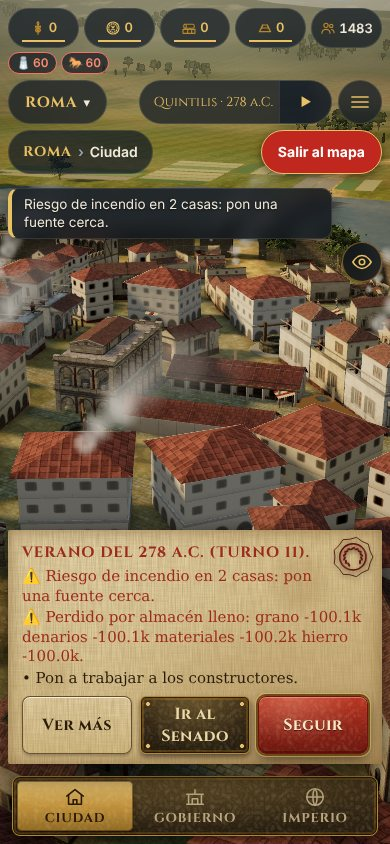
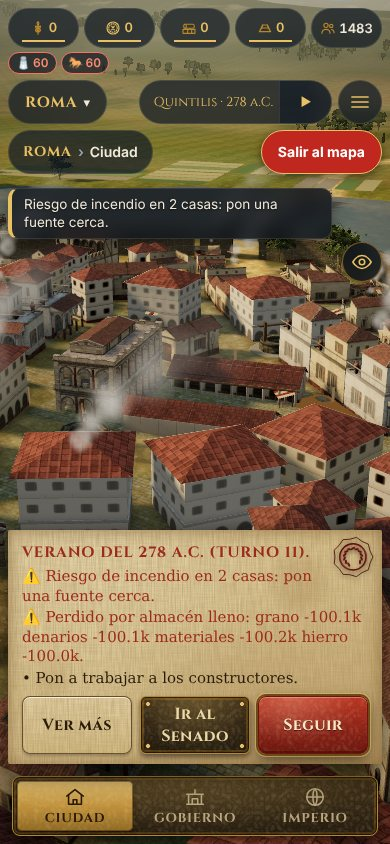
CI1b: calles de tierra más claras y eje del foro más ancho; caché v130
Claude-Session: https://claude.ai/code/session_01QiKC3AfVQgWjdzHpMKkgYR

diff --git a/sw.js b/sw.js
@@ -1,5 +1,5 @@
 /* AQVILA — service worker: todo el juego queda en caché para jugar sin conexión */
-const CACHE = 'aqvila-v129';
+const CACHE = 'aqvila-v130';
 const FILES = ['assets/soldados/movimientos_escudo_36.bin', 'assets/soldados/movimientos_escudo_74.bin', 'assets/soldados/falangita.bin', 'assets/soldados/falangita.json', 'assets/soldados/falangita_color.webp', 'assets/soldados/falangita_fondo.bin', 'assets/soldados/falangita_fondo.json', 'assets/soldados/falangita_fondo_color.webp', 'assets/soldados/falangita_fondo_masc.webp', 'assets/soldados/falangita_fondo_normal.webp', 'assets/soldados/falangita_fondo_orm.webp', 'assets/soldados/falangita_lejos.bin', 'assets/soldados/falangita_lejos.json', 'assets/soldados/falangita_lejos_color.webp', 'assets/soldados/falangita_lejos_masc.webp', 'assets/soldados/falangita_lejos_normal.webp', 'assets/soldados/falangita_lejos_orm.webp', 'assets/soldados/falangita_masc.webp', 'assets/soldados/falangita_muylejos.bin', 'assets/soldados/falangita_muylejos.json', 'assets/soldados/falangita_muylejos_color.webp', 'assets/soldados/falangita_muylejos_masc.webp', 'assets/soldados/falangita_muylejos_normal.webp', 'assets/soldados/falangita_muylejos_orm.webp', 'assets/soldados/falangita_normal.webp', 'assets/soldados/falangita_orm.webp', 'assets/soldados/hondero.bin', 'assets/soldados/hondero.json', 'assets/soldados/hondero_color.webp', 'assets/soldados/hondero_fondo.bin', 'assets/soldados/hondero_fondo.json', 'assets/soldados/hondero_fondo_color.webp', 'assets/soldados/hondero_fondo_masc.webp', 'assets/soldados/hondero_fondo_normal.webp', 'assets/soldados/hondero_fondo_orm.webp', 'assets/soldados/hondero_lejos.bin', 'assets/soldados/hondero_lejos.json', 'assets/soldados/hondero_lejos_color.webp', 'assets/soldados/hondero_lejos_masc.webp', 'assets/soldados/hondero_lejos_normal.webp', 'assets/soldados/hondero_lejos_orm.webp', 'assets/soldados/hondero_masc.webp', 'assets/soldados/hondero_muylejos.bin', 'assets/soldados/hondero_muylejos.json', 'assets/soldados/hondero_muylejos_color.webp', 'assets/soldados/hondero_muylejos_masc.webp', 'assets/soldados/hondero_muylejos_normal.webp', 'assets/soldados/hondero_muylejos_orm.webp', 'assets/soldados/hondero_normal.webp', 'assets/soldados/hondero_orm.webp', 'assets/soldados/hoplita.bin', 'assets/soldados/hoplita.json', 'assets/soldados/hoplita_color.webp', 'assets/soldados/hoplita_fondo.bin', 'assets/soldados/hoplita_fondo.json', 'assets/soldados/hoplita_fondo_color.webp', 'assets/soldados/hoplita_fondo_masc.webp', 'assets/soldados/hoplita_fondo_normal.webp', 'assets/soldados/hoplita_fondo_orm.webp', 'assets/soldados/hoplita_lejos.bin', 'assets/soldados/hoplita_lejos.json', 'assets/soldados/hoplita_lejos_color.webp', 'assets/soldados/hoplita_lejos_masc.webp', 'assets/soldados/hoplita_lejos_normal.webp', 'assets/soldados/hoplita_lejos_orm.webp', 'assets/soldados/hoplita_masc.webp', 'assets/soldados/hoplita_muylejos.bin', 'assets/soldados/hoplita_muylejos.json', 'assets/soldados/hoplita_muylejos_color.webp', 'assets/soldados/hoplita_muylejos_masc.webp', 'assets/soldados/hoplita_muylejos_normal.webp', 'assets/soldados/hoplita_muylejos_orm.webp', 'assets/soldados/hoplita_normal.webp', 'assets/soldados/hoplita_orm.webp', 'assets/soldados/ibero.bin', 'assets/soldados/ibero.json', 'assets/soldados/ibero_color.webp', 'assets/soldados/ibero_fondo.bin', 'assets/soldados/ibero_fondo.json', 'assets/soldados/ibero_fondo_color.webp', 'assets/soldados/ibero_fondo_masc.webp', 'assets/soldados/ibero_fondo_normal.webp', 'assets/soldados/ibero_fondo_orm.webp', 'assets/soldados/ibero_lejos.bin', 'assets/soldados/ibero_lejos.json', 'assets/soldados/ibero_lejos_color.webp', 'assets/soldados/ibero_lejos_masc.webp', 'assets/soldados/ibero_lejos_normal.webp', 'assets/soldados/ibero_lejos_orm.webp', 'assets/soldados/ibero_masc.webp', 'assets/soldados/ibero_muylejos.bin', 'assets/soldados/ibero_muylejos.json', 'assets/soldados/ibero_muylejos_color.webp', 'assets/soldados/ibero_muylejos_masc.webp', 'assets/soldados/ibero_muylejos_normal.webp', 'assets/soldados/ibero_muylejos_orm.webp', 'assets/soldados/ibero_normal.webp', 'assets/soldados/ibero_orm.webp', 'assets/soldados/movimientos_sarisa_36.bin', 'assets/soldados/movimientos_sarisa_74.bin', 'assets/soldados/peltasta.bin', 'assets/soldados/peltasta.json', 'assets/soldados/peltasta_color.webp', 'assets/soldados/peltasta_fondo.bin', 'assets/soldados/peltasta_fondo.json', 'assets/soldados/peltasta_fondo_color.webp', 'assets/soldados/peltasta_fondo_masc.webp', 'assets/soldados/peltasta_fondo_normal.webp', 'assets/soldados/peltasta_fondo_orm.webp', 'assets/soldados/peltasta_lejos.bin', 'assets/soldados/peltasta_lejos.json', 'assets/soldados/peltasta_lejos_color.webp', 'assets/soldados/peltasta_lejos_masc.webp', 'assets/soldados/peltasta_lejos_normal.webp', 'assets/soldados/peltasta_lejos_orm.webp', 'assets/soldados/peltasta_masc.webp', 'assets/soldados/peltasta_muylejos.bin', 'assets/soldados/peltasta_muylejos.json', 'assets/soldados/peltasta_muylejos_color.webp', 'assets/soldados/peltasta_muylejos_masc.webp', 'assets/soldados/peltasta_muylejos_normal.webp', 'assets/soldados/peltasta_muylejos_orm.webp', 'assets/soldados/peltasta_normal.webp', 'assets/soldados/peltasta_orm.webp', 'assets/soldados/triario.bin', 'assets/soldados/triario.json', 'assets/soldados/triario_color.webp', 'assets/soldados/triario_fondo.bin', 'assets/soldados/triario_fondo.json', 'assets/soldados/triario_fondo_color.webp', 'assets/soldados/triario_fondo_masc.webp', 'assets/soldados/triario_fondo_normal.webp', 'assets/soldados/triario_fondo_orm.webp', 'assets/soldados/triario_lejos.bin', 'assets/soldados/triario_lejos.json', 'assets/soldados/triario_lejos_color.webp', 'assets/soldados/triario_lejos_masc.webp', 'assets/soldados/triario_lejos_normal.webp', 'assets/soldados/triario_lejos_orm.webp', 'assets/soldados/triario_masc.webp', 'assets/soldados/triario_muylejos.bin', 'assets/soldados/triario_muylejos.json', 'assets/soldados/triario_muylejos_color.webp', 'assets/soldados/triario_muylejos_masc.webp', 'assets/soldados/triario_muylejos_normal.webp', 'assets/soldados/triario_muylejos_orm.webp', 'assets/soldados/triario_normal.webp', 'assets/soldados/triario_orm.webp', 'assets/soldados/velite.bin', 'assets/soldados/velite.json', 'assets/soldados/velite_color.webp', 'assets/soldados/velite_fondo.bin', 'assets/soldados/velite_fondo.json', 'assets/soldados/velite_fondo_color.webp', 'assets/soldados/velite_fondo_masc.webp', 'assets/soldados/velite_fondo_normal.webp', 'assets/soldados/velite_fondo_orm.webp', 'assets/soldados/velite_lejos.bin', 'assets/soldados/velite_lejos.json', 'assets/soldados/velite_lejos_color.webp', 'assets/soldados/velite_lejos_masc.webp', 'assets/soldados/velite_lejos_normal.webp', 'assets/soldados/velite_lejos_orm.webp', 'assets/soldados/velite_masc.webp', 'assets/soldados/velite_muylejos.bin', 'assets/soldados/velite_muylejos.json', 'assets/soldados/velite_muylejos_color.webp', 'assets/soldados/velite_muylejos_masc.webp', 'assets/soldados/velite_muylejos_normal.webp', 'assets/soldados/velite_muylejos_orm.webp', 'assets/soldados/velite_normal.webp', 'assets/soldados/velite_orm.webp', 'js/gfx/soldado.js', 'assets/soldados/LICENSE.txt', 'assets/soldados/galo.bin', 'assets/soldados/galo.json', 'assets/soldados/galo_color.webp', 'assets/soldados/galo_fondo.bin', 'assets/soldados/galo_fondo.json', 'assets/soldados/galo_fondo_color.webp', 'assets/soldados/galo_fondo_masc.webp', 'assets/soldados/galo_fondo_normal.webp', 'assets/soldados/galo_fondo_orm.webp', 'assets/soldados/galo_lejos.bin', 'assets/soldados/galo_lejos.json', 'assets/soldados/galo_lejos_color.webp', 'assets/soldados/galo_lejos_masc.webp', 'assets/soldados/galo_lejos_normal.webp', 'assets/soldados/galo_lejos_orm.webp', 'assets/soldados/galo_masc.webp', 'assets/soldados/galo_muylejos.bin', 'assets/soldados/galo_muylejos.json', 'assets/soldados/galo_muylejos_color.webp', 'assets/soldados/galo_muylejos_masc.webp', 'assets/soldados/galo_muylejos_normal.webp', 'assets/soldados/galo_muylejos_orm.webp', 'assets/soldados/galo_normal.webp', 'assets/soldados/galo_orm.webp', 'assets/soldados/hastatus.bin', 'assets/soldados/hastatus.json', 'assets/soldados/hastatus_color.webp', 'assets/soldados/hastatus_fondo.bin', 'assets/soldados/hastatus_fondo.json', 'assets/soldados/hastatus_fondo_color.webp', 'assets/soldados/hastatus_fondo_masc.webp', 'assets/soldados/hastatus_fondo_normal.webp', 'assets/soldados/hastatus_fondo_orm.webp', 'assets/soldados/hastatus_lejos.bin', 'assets/soldados/hastatus_lejos.json', 'assets/soldados/hastatus_lejos_color.webp', 'assets/soldados/hastatus_lejos_masc.webp', 'assets/soldados/hastatus_lejos_normal.webp', 'assets/soldados/hastatus_lejos_orm.webp', 'assets/soldados/hastatus_masc.webp', 'assets/soldados/hastatus_muylejos.bin', 'assets/soldados/hastatus_muylejos.json', 'assets/soldados/hastatus_muylejos_color.webp', 'assets/soldados/hastatus_muylejos_masc.webp', 'assets/soldados/hastatus_muylejos_normal.webp', 'assets/soldados/hastatus_muylejos_orm.webp', 'assets/soldados/hastatus_normal.webp', 'assets/soldados/hastatus_orm.webp', 'gobierno/maquetas/falange/', 'gobierno/maquetas/falange/index.html', 'gobierno/maquetas/falange/acciones.js', 'gobierno/maquetas/falange/camara.js', 'gobierno/maquetas/falange/campo.js', 'gobierno/maquetas/falange/enemigo.js', 'gobierno/maquetas/falange/escena.js', 'gobierno/maquetas/falange/esqueleto.js', 'gobierno/maquetas/falange/formacion.js', 'gobierno/maquetas/falange/hud.js', 'gobierno/maquetas/falange/locomocion.js', 'gobierno/maquetas/falange/soldado.js', 'gobierno/maquetas/falange/sonido.js', 'gobierno/maquetas/falange/unidad.js', 'gobierno/maquetas/a-pie/', 'gobierno/maquetas/a-pie/index.html', 'gobierno/maquetas/a-pie/escena.js', 'gobierno/maquetas/a-pie/acciones.js', 'gobierno/maquetas/a-pie/camara.js', 'gobierno/maquetas/a-pie/campo.js', 'gobierno/maquetas/a-pie/enemigo.js', 'gobierno/maquetas/a-pie/esqueleto.js', 'gobierno/maquetas/a-pie/formacion.js', 'gobierno/maquetas/a-pie/hud.js', 'gobierno/maquetas/a-pie/locomocion.js', 'gobierno/maquetas/a-pie/soldado.js', 'gobierno/maquetas/a-pie/sonido.js', 'gobierno/maquetas/a-pie/unidad.js', 'gobierno/maquetas/testudo-luz-campo/arte/cielo.jpg', 'gobierno/maquetas/testudo-luz-campo/arte/detalle.png', 'gobierno/maquetas/testudo-luz-campo/arte/hierba_seca.jpg', 'gobierno/maquetas/testudo-luz-campo/arte/hierba_verde.jpg', 'gobierno/maquetas/testudo-luz-campo/arte/roca.jpg', 'gobierno/maquetas/testudo-luz-campo/arte/tierra.jpg', './', 'index.html', 'css/style.css', 'css/maniobra.css', 'css/guerra.css', 'assets/fuentes/cinzel-400.woff2', 'assets/fuentes/cinzel-700.woff2', 'js/data.js', 'js/asesor.js', 'js/diplomacia.js', 'js/ciudad.js', 'js/codice.js', 'js/registro.js', 'js/carga.js', 'js/battle.js', 'js/game.js', 'js/maniobra.js', 'js/ui-maniobra.js', 'js/guerra.js', 'js/ui-guerra.js', 'js/ui.js', 'js/gfx/models.js', 'js/gfx/sonido.js', 'js/gfx/sonido-ciudad.js', 'js/gfx/map3d.js', 'assets/mapa/costa.js', 'assets/mapa/alturas.js', 'assets/mapa/agua.js', 'js/gfx/units.js', 'js/gfx/statics.js', 'js/gfx/city3d.js', 'js/gfx/movil.js', 'js/gfx/vida.js', 'js/gfx/fachadas.js', 'js/gfx/roma-siglo.js', 'js/gfx/campos.js', 'js/gfx/civicas.js', 'js/gfx/trajin.js', 'js/gfx/ground.js', 'js/gfx/mundo.js', 'js/gfx/fluidez.js', 'assets/static/static.json', 'assets/units/units.json', 'js/vendor/three.module.min.js', 'manifest.webmanifest', 'icons/icon.svg', 'icons/icon-192.png', 'icons/icon-512.png', 'js/vendor/postprocessing/EffectComposer.js', 'js/vendor/postprocessing/RenderPass.js', 'js/vendor/postprocessing/ShaderPass.js', 'js/vendor/postprocessing/OutlinePass.js', 'js/vendor/postprocessing/Pass.js', 'js/vendor/postprocessing/MaskPass.js', 'js/vendor/postprocessing/CopyShader.js', 'js/gfx/campo-mando.js', 'css/mando.css', 'js/ui-mando.js', 'js/simulador.js'];
 self.addEventListener('install', e => { e.waitUntil(caches.open(CACHE).then(c => c.addAll(FILES)).then(() => self.skipWaiting())); });
 self.addEventListener('activate', e => { e.waitUntil(caches.keys().then(ks => Promise.all(ks.filter(k => k !== CACHE).map(k => caches.delete(k)))).then(() => self.clients.claim())); });

diff --git a/js/gfx/ground.js b/js/gfx/ground.js
@@ -214,7 +214,8 @@ function pintarCiudad3(M, T, E, fino) {
   /* calles: tierra batida con el centro gastado; las de barrio alto, empedradas */
   for (const c of E.vias) { if (fino && (c.caja[2] < -EC - 20 || c.caja[0] > EC + 20 || c.caja[3] < CZ - EC - 20 || c.caja[1] > CZ + EC + 20)) continue;
     if (c.emp) { trazo(M, c.p, c.w * 2 + 1, 1.2, fino ? '70,255,0' : '230,0,0'); trazo(T, c.p, c.w * 2, 1.4, '150,140,124', 0.6); }
-    else { trazo(M, c.p, c.w * 2 + (c.t === 'camino' ? 2 : 1.2), 1.4, '255,0,0'); trazo(T, c.p, c.w * 2, 1.6, '142,128,104', 0.8); trazo(T, c.p, c.w * 0.8, c.w * 0.4, '196,178,142', 0.7); } }
+    else { const w = c.t === 'via' ? c.w * 1.4 : c.w;      // CI1b: tierra clara que se lee contra el suelo; las vías del foro (el eje de puerta a puerta) algo más anchas
+      trazo(M, c.p, w * 2 + (c.t === 'camino' ? 2 : 1.2), 1.4, '255,0,0'); trazo(T, c.p, w * 2, 1.6, '204,186,150', 0.9); trazo(T, c.p, w * 0.9, w * 0.4, '228,214,182', 0.8); } }
   /* plaza del foro, enlosada */
   if (E.foro) { const f = E.foro, c = Math.cos(f.ang), s = Math.sin(f.ang), rect = [[-1, -1], [1, -1], [1, 1], [-1, 1]].map(([u, v]) => [f.x + u * f.w / 2 * c - v * f.d / 2 * s, f.z + u * f.w / 2 * s + v * f.d / 2 * c]);
     M.fillStyle = fino ? 'rgb(40,255,0)' : 'rgb(230,0,0)'; poli(M, rect); M.fill(); trazo(M, rect, 1, 2, fino ? '40,255,0' : '230,0,0', 1, true); T.fillStyle = 'rgba(150,140,124,0.55)'; poli(T, rect); T.fill(); }
